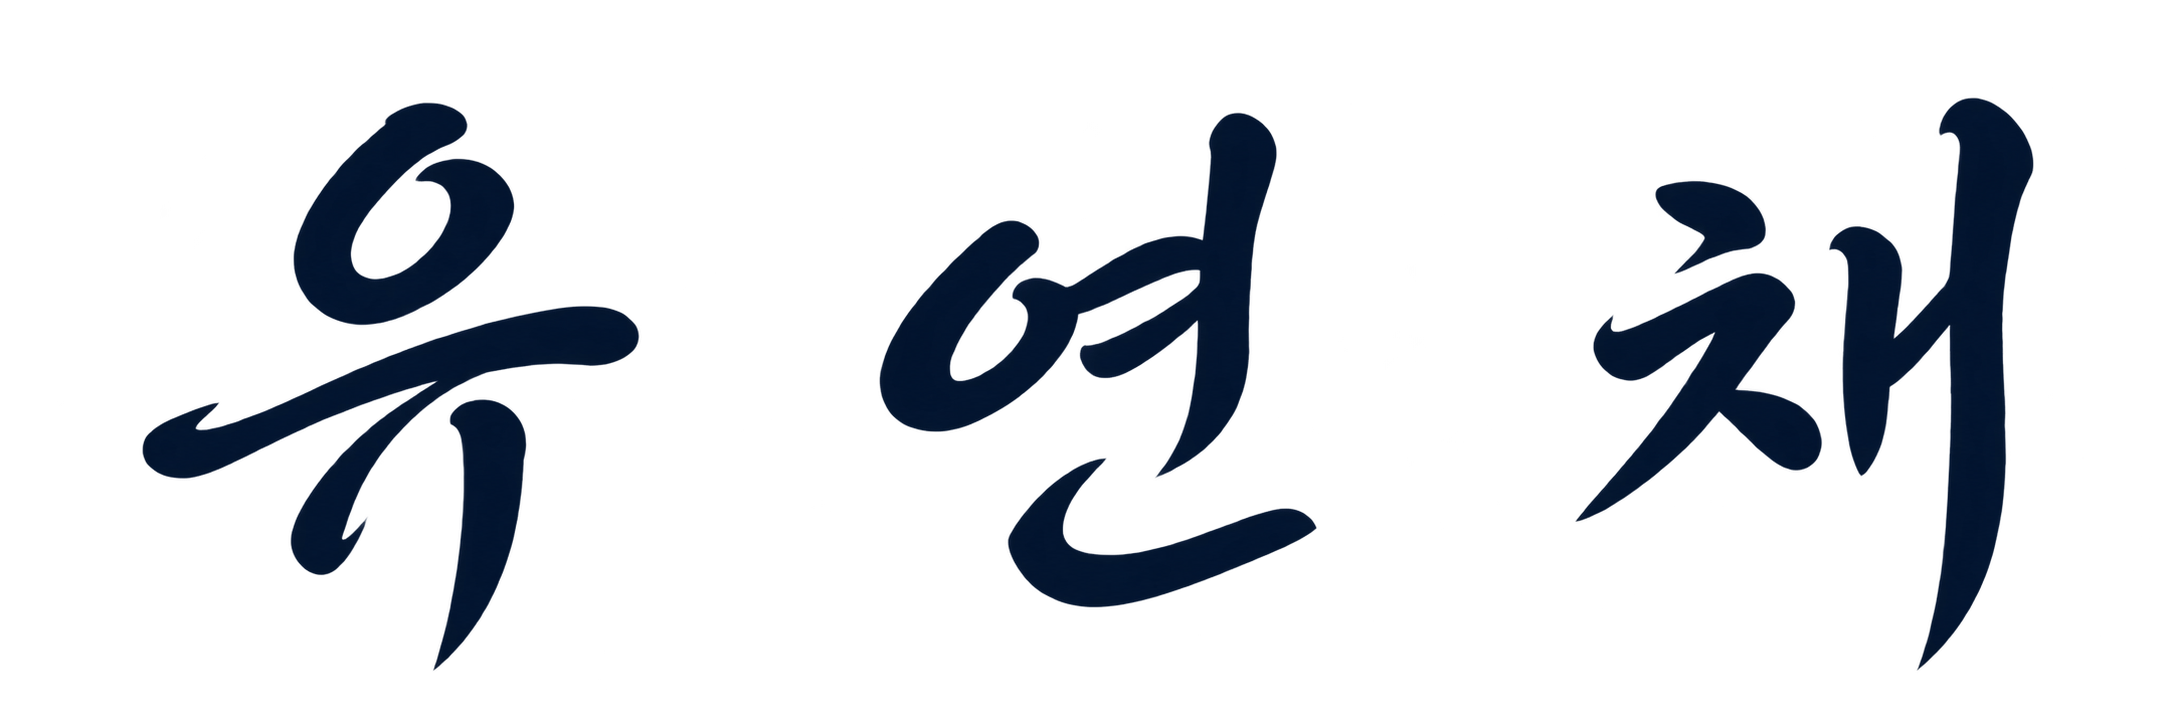
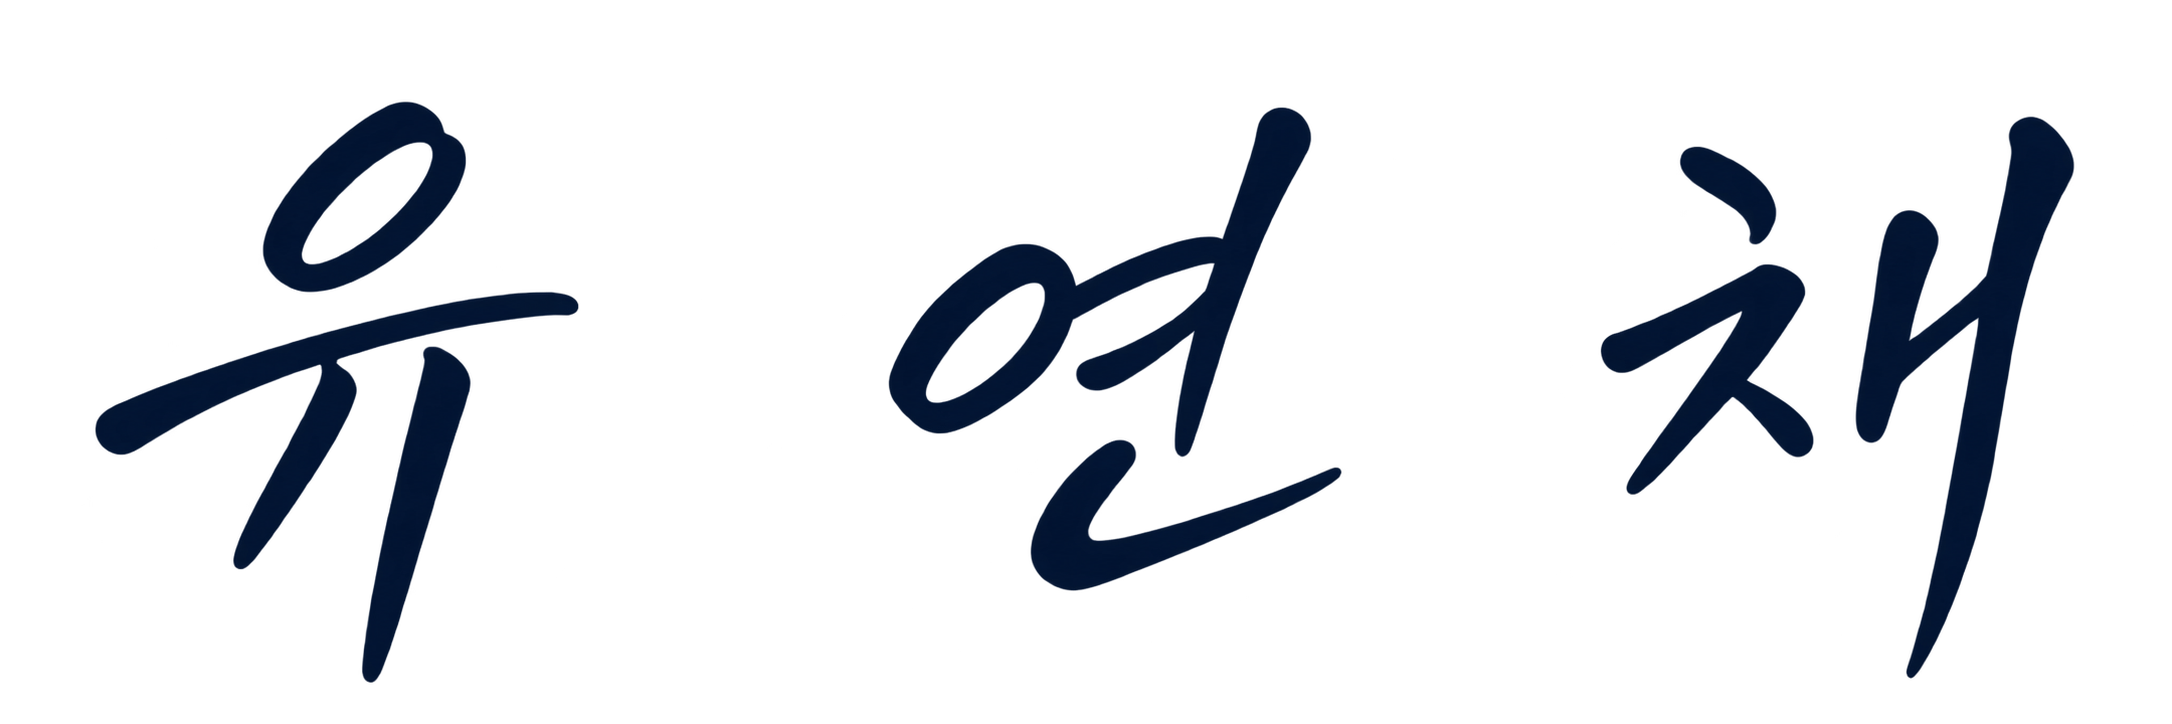
홈 CEO 대표이사 서명 이미지를 새 파일(짙은 남색 붓글씨 유연채)로 교체. ceo-sign.png 교체 + index.html 캐시버전 ?v=6→7.

diff --git a/index.html b/index.html
@@ -329,7 +329,7 @@
           <span class="eyebrow" data-i18n="home.ceo.eyebrow">CEO Message</span>
           <blockquote class="ceohome__quote" data-i18n-html="home.ceo.quote">“신뢰와 기술로 <br>가스산업의 미래를 만듭니다.”</blockquote>
           <p class="ceohome__desc" data-i18n-html="home.ceo.desc">한국탄산화학(주)는 고객의 신뢰를 가장 큰 가치로 여기며, <br>끊임없는 기술혁신과 안정적인 공급을 통해 <br>대한민국 가스산업의 지속 가능한 발전에 기여하겠습니다.</p>
-          <p class="ceohome__sign"><span data-i18n="home.ceo.ceo">대표이사</span> <img class="sign-img" src="assets/images/site/ceo-sign.png?v=6" alt="유연채"></p>
+          <p class="ceohome__sign"><span data-i18n="home.ceo.ceo">대표이사</span> <img class="sign-img" src="assets/images/site/ceo-sign.png?v=7" alt="유연채"></p>
         </div>
         <div class="ceohome__phil">
           <div class="phil">
